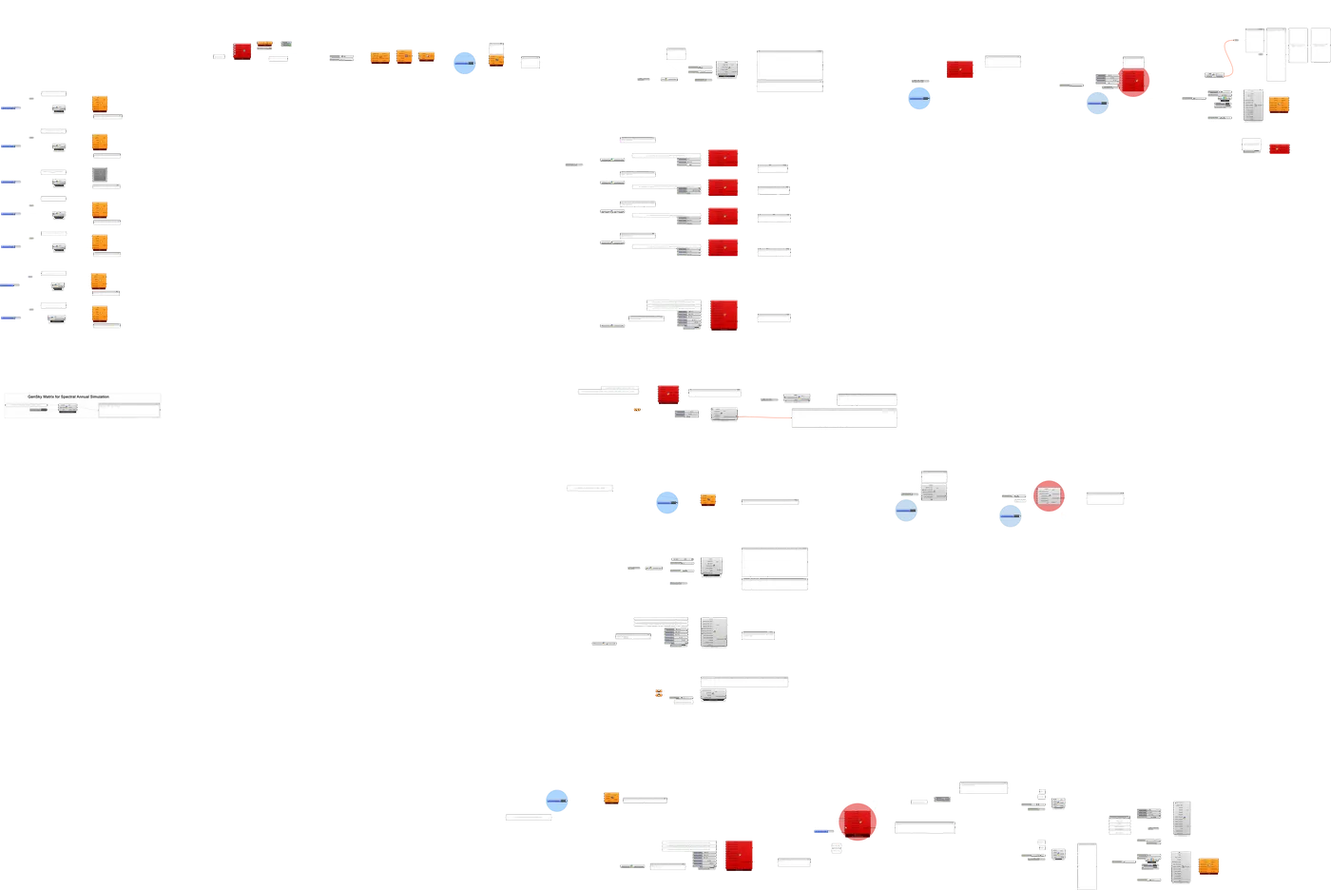
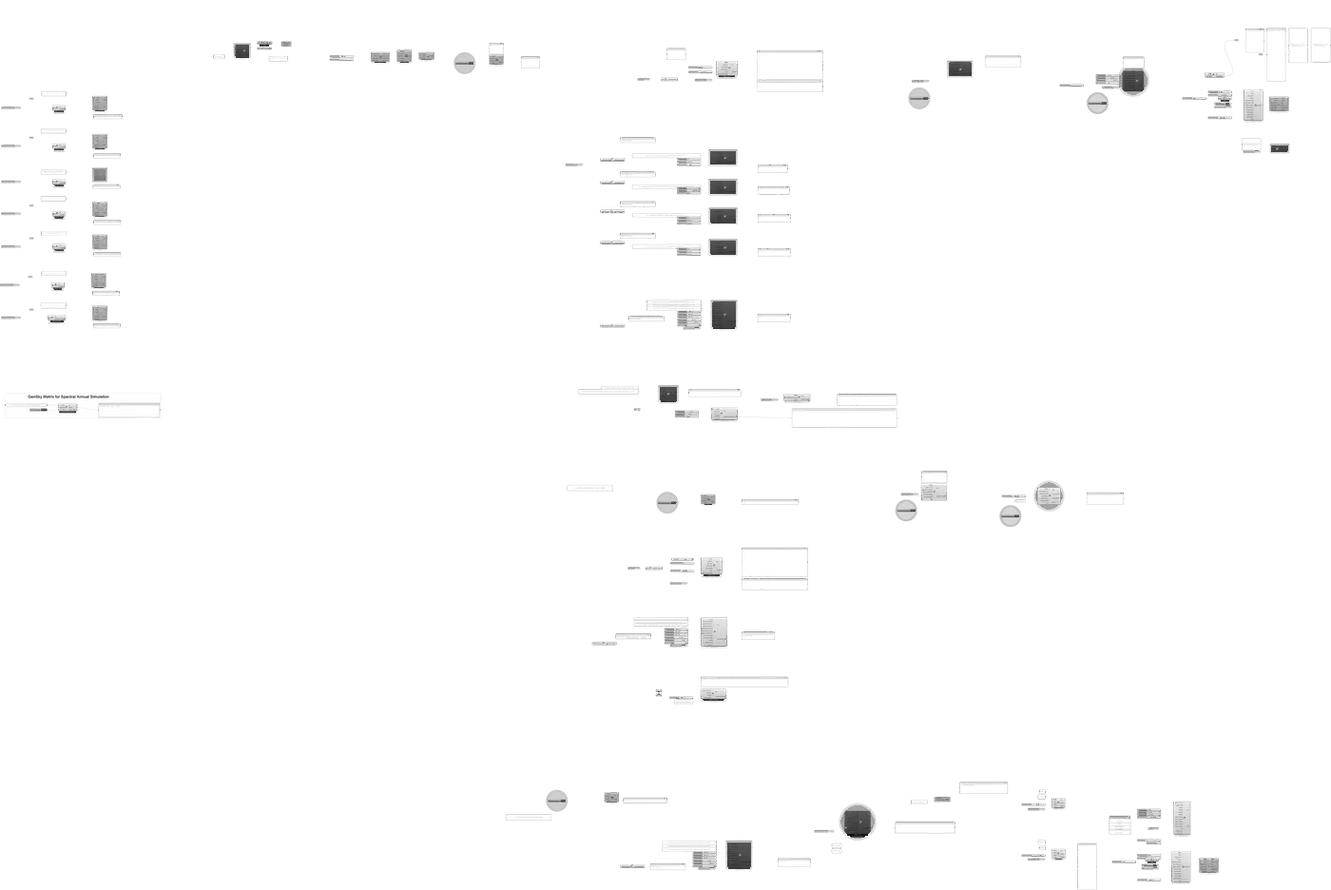
Spectral conversion section with calculator, model beside aligned PPFD and DLI heat maps, credit roles, black and white definitions

diff --git a/index.html b/index.html
@@ -20,17 +20,18 @@
   <link rel="preconnect" href="https://fonts.googleapis.com">
   <link rel="preconnect" href="https://fonts.gstatic.com" crossorigin>
   <link rel="stylesheet" href="https://fonts.googleapis.com/css2?family=Archivo:wdth,wght@62..125,100..900&family=JetBrains+Mono:wght@400;500&display=swap">
-  <link rel="stylesheet" href="assets/style.css?v=1">
+  <link rel="stylesheet" href="assets/style.css?v=2">
 </head>
 <body>
   <header class="top">
     <a class="name brand" href="#top"><img src="img/icon.png" alt="" width="24" height="24">Kybele</a>
     <nav class="toc" aria-label="Sections">
       <a href="#light"><span>01</span> Plants and light</a>
-      <a href="#tool"><span>02</span> The tool</a>
-      <a href="#case"><span>03</span> Case study</a>
-      <a href="#workflows"><span>04</span> Definitions</a>
-      <a href="#credits"><span>05</span> Credits</a>
+      <a href="#conversion"><span>02</span> Lux to PPFD</a>
+      <a href="#tool"><span>03</span> The tool</a>
+      <a href="#case"><span>04</span> Case study</a>
+      <a href="#workflows"><span>05</span> Definitions</a>
+      <a href="#credits"><span>06</span> Credits</a>
     </nav>
     <div class="themes" role="group" aria-label="Theme">
       <button type="button" data-theme="trace">Trace</button><button type="button" data-theme="night">Night</button><button type="button" data-theme="clay">Clay</button>
@@ -56,8 +57,8 @@
       <div><img class="logo-hero" src="img/kybele-logo.webp" width="900" height="900" alt="Kybele logo: a greenhouse outline with a fruiting plant, in grey and orange"></div>
       <ol class="index">
         <li><a href="#light"><span class="n">01</span><span class="t">Plants and light</span><span class="m">Why lux is not enough</span></a></li>
-        <li><a href="#case"><span class="n">03</span><span class="t">UW greenhouse</span><span class="m">PPFD every month, DLI every day</span></a></li>
-        <li><a href="#credits"><span class="n">05</span><span class="t">Credits</span><span class="m">Mehlika Inanici, Gundula Proksch, Shafiul Islam</span></a></li>
+        <li><a href="#case"><span class="n">04</span><span class="t">UW greenhouse</span><span class="m">PPFD every month, DLI every day</span></a></li>
+        <li><a href="#credits"><span class="n">06</span><span class="t">Credits</span><span class="m">Mehlika Inanici, Gundula Proksch, Shafiul Islam</span></a></li>
       </ol>
     </section>
 
@@ -92,11 +93,48 @@
       </div>
     </section>
 
+    <section class="sec" id="conversion">
+      <div class="wrap">
+        <div class="sec-head">
+          <div>
+            <p class="kicker"><b>02</b>Spectral conversion</p>
+            <h2>From lux to photons</h2>
+            <p class="sub">The conversion factor depends on the spectrum of the light</p>
+          </div>
+          <div class="cols">
+            <p>Radiance computes light in three channels, and its results are photometric (lux, weighted by the eye's V(λ)) or radiometric (W/m²). Plants need a photon count in the PAR range. Turning one into the other needs the spectral power distribution of the light, E(λ): the same lux carries more or fewer PAR photons depending on how the energy is spread across wavelengths.</p>
+            <p>For a three channel simulation the conversion is a single factor for the light source, PPFD = k × illuminance. A hyperspectral simulation carries the spectrum through the whole calculation and integrates the photons directly, so it needs no factor; that matters most for LED grow lights, whose narrow peaks a single factor cannot describe.</p>
+          </div>
+        </div>
+        <div class="split">
+          <div>
+            <h3>The factor</h3>
+            <div class="eq">
+              <p><span class="v">PPFD</span> = <span class="int">∫<sub>400</sub><sup>700</sup></span> E(λ) · λ / (h · c · N<sub>A</sub>) dλ <small>µmol/m²/s</small></p>
+              <p><span class="v">E<sub>v</sub></span> = 683 lm/W · <span class="int">∫<sub>380</sub><sup>780</sup></span> E(λ) · V(λ) dλ <small>lux</small></p>
+              <p><span class="v">k</span> = PPFD / E<sub>v</sub> <small>µmol/m²/s per lux</small></p>
+            </div>
+            <p class="eq-note">h is Planck's constant, c the speed of light and N<sub>A</sub> Avogadro's number, so λ / (h c N<sub>A</sub>) is the number of moles of photons in one joule at wavelength λ (about 8.36 µmol per joule per 1000 nm). The PAR range and V(λ) are the curves in the chart above.</p>
+          </div>
+          <div>
+            <h3>Try it</h3>
+            <div class="calc" id="calc">
+              <label><span>Light source, as a black body</span><input type="range" id="cct" min="2000" max="10000" step="100" value="5800"><b id="cctv">5800 K</b></label>
+              <label><span>Illuminance from the simulation</span><input type="number" id="lux" value="50000" min="0" step="1000"> <b>lux</b></label>
+              <p class="calc-out"><span>k = <b id="kv"></b> µmol/m²/s per klux</span><span>PPFD = <b id="pv"></b> µmol/m²/s</span></p>
+              <svg class="chart" id="calcsvg" viewBox="0 0 520 150" aria-label="Spectrum of the chosen light source with the PAR range"></svg>
+            </div>
+            <p class="eq-note">Computed in the page from the V(λ) and PAR curves above. Sunlight is close to a 5800 K black body (about 18 µmol/m²/s per klux); warm incandescent light near 2700 K gives about 21. Electric lamps and LEDs need their own measured spectrum.</p>
+          </div>
+        </div>
+      </div>
+    </section>
+
     <section class="sec" id="tool">
       <div class="wrap">
         <div class="sec-head">
           <div>
-            <p class="kicker"><b>02</b>The tool</p>
+            <p class="kicker"><b>03</b>The tool</p>
             <h2>What Kybele does</h2>
             <p class="sub">Rhino 8 · Grasshopper · CPython 3.9 · Radiance · EnergyPlus</p>
           </div>
@@ -128,7 +166,7 @@
       <div class="wrap">
         <div class="sec-head">
           <div>
-            <p class="kicker"><b>03</b>Case study</p>
+            <p class="kicker"><b>04</b>Case study</p>
             <h2>UW greenhouse</h2>
             <p class="sub">A two bay greenhouse among campus buildings, Seattle</p>
           </div>
@@ -145,16 +183,19 @@
             <div>
               <div class="months"><figure data-seq="monthseq" data-frame="0"><img src="img/month-01.webp" width="462" height="348" alt="PPFD, January 21 at noon" loading="lazy" decoding="async"><figcaption>Jan <b>164</b></figcaption></figure><figure data-seq="monthseq" data-frame="1"><img src="img/month-02.webp" width="462" height="348" alt="PPFD, February 21 at noon" loading="lazy" decoding="async"><figcaption>Feb <b>312</b></figcaption></figure><figure data-seq="monthseq" data-frame="2"><img src="img/month-03.webp" width="462" height="348" alt="PPFD, March 21 at noon" loading="lazy" decoding="async"><figcaption>Mar <b>811</b></figcaption></figure><figure data-seq="monthseq" data-frame="3"><img src="img/month-04.webp" width="462" height="348" alt="PPFD, April 21 at noon" loading="lazy" decoding="async"><figcaption>Apr <b>1157</b></figcaption></figure><figure data-seq="monthseq" data-frame="4"><img src="img/month-05.webp" width="462" height="348" alt="PPFD, May 21 at noon" loading="lazy" decoding="async"><figcaption>May <b>561</b></figcaption></figure><figure data-seq="monthseq" data-frame="5"><img src="img/month-06.webp" width="462" height="348" alt="PPFD, June 21 at noon" loading="lazy" decoding="async"><figcaption>Jun <b>772</b></figcaption></figure><figure data-seq="monthseq" data-frame="6"><img src="img/month-07.webp" width="462" height="348" alt="PPFD, July 21 at noon" loading="lazy" decoding="async"><figcaption>Jul <b>853</b></figcaption></figure><figure data-seq="monthseq" data-frame="7"><img src="img/month-08.webp" width="462" height="348" alt="PPFD, August 21 at noon" loading="lazy" decoding="async"><figcaption>Aug <b>1266</b></figcaption></figure><figure data-seq="monthseq" data-frame="8"><img src="img/month-09.webp" width="462" height="348" alt="PPFD, September 21 at noon" loading="lazy" decoding="async"><figcaption>Sep <b>1044</b></figcaption></figure><figure data-seq="monthseq" data-frame="9"><img src="img/month-10.webp" width="462" height="348" alt="PPFD, October 21 at noon" loading="lazy" decoding="async"><figcaption>Oct <b>576</b></figcaption></figure><figure data-seq="monthseq" data-frame="10"><img src="img/month-11.webp" width="462" height="348" alt="PPFD, November 21 at noon" loading="lazy" decoding="async"><figcaption>Nov <b>59</b></figcaption></figure><figure data-seq="monthseq" data-frame="11"><img src="img/month-12.webp" width="462" height="348" alt="PPFD, December 21 at noon" loading="lazy" decoding="async"><figcaption>Dec <b>255</b></figcaption></figure></div>
               <div style="margin-top: 12px"><div class="ppfd-scale"></div><div class="ppfd-keys"><span>100</span><span>PPFD, µmol/m²/s</span><span>1000</span></div></div>
-              <div style="margin-top: 16px"><figure><img src="img/case-study.webp" data-l="img/case-study-l.webp" width="1100" height="559" alt="The greenhouse model among wireframe campus buildings" class="v-light" loading="lazy" decoding="async"><img src="img/case-study-n.webp" data-l="img/case-study-n-l.webp" width="1100" height="559" alt="The greenhouse model among wireframe campus buildings" class="v-dark" loading="lazy" decoding="async"><figcaption>The model and its surroundings.</figcaption></figure></div>
+
             </div>
           </div>
         </div>
 
         <div class="block">
-          <div class="bh"><h3>Every hour, every day</h3><span>annual results for one sensor</span></div>
+          <div class="bh"><h3>Every hour, every day</h3><span>the model, and the annual results for one sensor: PPFD for every hour adds up to DLI for every day</span></div>
           <div class="split">
-            <figure><img src="img/heat-ppfd.webp" data-l="img/heat-ppfd-l.webp" width="1100" height="489" alt="Annual PPFD heat map for a sensor, hour of day against day of year" class="v-light" loading="lazy" decoding="async"><img src="img/heat-ppfd-n.webp" data-l="img/heat-ppfd-n-l.webp" width="1100" height="489" alt="Annual PPFD heat map for a sensor, hour of day against day of year" class="v-dark" loading="lazy" decoding="async"><figcaption>PPFD for 8760 hours: 63% of hours below 100 µmol/m²/s (nights included), 6% above 1000.</figcaption></figure>
-            <figure><img src="img/heat-dli.webp" data-l="img/heat-dli-l.webp" width="1100" height="341" alt="Annual DLI heat map, day of year" class="v-light" loading="lazy" decoding="async"><img src="img/heat-dli-n.webp" data-l="img/heat-dli-n-l.webp" width="1100" height="341" alt="Annual DLI heat map, day of year" class="v-dark" loading="lazy" decoding="async"><figcaption>DLI for 365 days: 29% of days below 10 mol/m²/day, 16% above 40.</figcaption></figure>
+            <figure><img src="img/case-study.webp" data-l="img/case-study-l.webp" width="1100" height="559" alt="The greenhouse model among wireframe campus buildings" class="v-light" loading="lazy" decoding="async"><img src="img/case-study-n.webp" data-l="img/case-study-n-l.webp" width="1100" height="559" alt="The greenhouse model among wireframe campus buildings" class="v-dark" loading="lazy" decoding="async"><figcaption>The model and its surroundings.</figcaption></figure>
+            <div class="heat">
+              <figure class="h-ppfd"><img src="img/heat-ppfd.webp" data-l="img/heat-ppfd-l.webp" width="1100" height="489" alt="Annual PPFD heat map for a sensor, hour of day against day of year" class="v-light" loading="lazy" decoding="async"><img src="img/heat-ppfd-n.webp" data-l="img/heat-ppfd-n-l.webp" width="1100" height="489" alt="Annual PPFD heat map for a sensor, hour of day against day of year" class="v-dark" loading="lazy" decoding="async"><figcaption>PPFD for 8760 hours: 63% of hours below 100 µmol/m²/s (nights included), 6% above 1000.</figcaption></figure>
+              <figure class="h-dli"><img src="img/heat-dli.webp" data-l="img/heat-dli-l.webp" width="1100" height="341" alt="Annual DLI heat map, day of year" class="v-light" loading="lazy" decoding="async"><img src="img/heat-dli-n.webp" data-l="img/heat-dli-n-l.webp" width="1100" height="341" alt="Annual DLI heat map, day of year" class="v-dark" loading="lazy" decoding="async"><figcaption>DLI for 365 days, the sum of each day's PPFD: 29% of days below 10 mol/m²/day, 16% above 40.</figcaption></figure>
+            </div>
           </div>
         </div>
 
@@ -174,7 +215,7 @@
       <div class="wrap">
         <div class="sec-head">
           <div>
-            <p class="kicker"><b>04</b>Definitions</p>
+            <p class="kicker"><b>05</b>Definitions</p>
             <h2>The Grasshopper definitions</h2>
             <p class="sub">Three channel and hyperspectral</p>
           </div>
@@ -194,19 +235,19 @@
       <div class="wrap">
         <div class="sec-head">
           <div>
-            <p class="kicker"><b>05</b>Credits</p>
+            <p class="kicker"><b>06</b>Credits</p>
             <h2>People and places</h2>
             <p class="sub">University of Washington, Department of Architecture</p>
           </div>
           <div class="cols">
-            <p>Kybele was presented as "Simulation for Food: Evaluating Urban Greenhouses" by Shafiul Islam and Mehlika Inanici at the 24th International Radiance Workshop, hosted by the University of Washington in Gould Hall, Seattle, on Tuesday, September 1, 2026.</p>
+            <p>Kybele was presented as "Simulation for Food: Evaluating Urban Greenhouses" by Mehlika Inanici and Shafiul Islam at the 24th International Radiance Workshop, hosted by the University of Washington in Gould Hall, Seattle, on Tuesday, September 1, 2026.</p>
             <p>Kybele is listed among the in-house software of Mehlika Inanici's research and published on food4Rhino under the BSD 3 clause licence.</p>
           </div>
         </div>
         <div class="people">
-          <div><b>Mehlika Inanici</b><p class="role">Research lead, co-presenter</p><p>Leads the research behind Kybele and published the plugin on food4Rhino. Co-presenter at the Radiance Workshop, which she hosted, and co-author of the chapter "Lighting simulations in greenhouses".</p></div>
-          <div><b>Gundula Proksch</b><p class="role">Controlled environment agriculture research</p><p>Principal investigator of the Belmont Forum collaborative research project "Aquaponics optimization in a local climatic, economic and cultural context" (2024 to 2027), with Mehlika Inanici as co-principal investigator, and co-editor, with Oliver Körner, of <i>Advances in Controlled Environment Agriculture</i>.</p></div>
-          <div><b>Shafiul Islam</b><p class="role">Developer, co-presenter</p><p>Developed the Kybele components and the Grasshopper workflows, ran the UW greenhouse case study, and presented the work at the Radiance Workshop. Co-author of the chapter with Mehlika Inanici.</p></div>
+          <div><b>Mehlika Inanici</b><p class="role">Research lead</p><p>Leads the research behind Kybele and published the plugin on food4Rhino. Hosted the Radiance Workshop where it was presented, and is first author of the chapter "Lighting simulations in greenhouses".</p></div>
+          <div><b>Gundula Proksch</b><p class="role">Research advisor</p><p>Advisor to the research. Principal investigator of the Belmont Forum collaborative research project "Aquaponics optimization in a local climatic, economic and cultural context" (2024 to 2027), with Mehlika Inanici as co-principal investigator, and co-editor, with Oliver Körner, of <i>Advances in Controlled Environment Agriculture</i>.</p></div>
+          <div><b>Shafiul Islam</b><p class="role">Developer, researcher</p><p>Developed the Kybele components and the Grasshopper workflows, ran the UW greenhouse case study, and presented the work with Mehlika Inanici at the Radiance Workshop. Co-author of the chapter.</p></div>
         </div>
         <div class="block">
           <h3>Publication</h3>
@@ -228,7 +269,7 @@
       <span><a href="https://shafiarch.github.io/works_shafi/">Works</a> · <a href="https://shafiarch.github.io/simulation_workflows/">Simulation Workflows</a> · <a href="https://shafiarch.github.io/works_fabrications/">Fabrication Works</a> · <a href="https://github.com/ShafiArch/Kybele">Source files</a></span>
     </div>
   </footer>
-  <script>window.KYBELE_DLI = {"a":[4.8,8.3,6.1,6.9,5.6,5.3,1.6,1.7,5.3,10.1,7.9,1.3,1.7,10.1,3.0,7.8,5.7,2.3,6.8,9.0,3.9,4.3,6.8,3.7,3.6,6.7,5.1,9.3,15.7,13.8,10.4,10.1,13.6,15.4,10.3,19.0,11.1,17.4,13.7,6.4,4.2,8.6,14.6,13.4,8.7,2.9,11.8,10.1,2.6,15.8,11.9,10.5,7.0,4.6,2.3,21.8,21.8,12.4,24.5,7.8,11.3,21.5,24.8,10.8,5.0,16.7,24.0,27.3,6.4,12.4,3.9,2.9,8.0,16.4,11.8,21.1,23.2,13.3,17.3,23.2,23.2,26.9,22.0,28.4,28.0,19.5,29.4,31.4,36.2,36.4,31.5,28.4,15.6,30.6,9.2,13.2,36.8,14.8,26.4,34.9,32.2,27.2,42.9,39.1,27.9,5.4,10.1,26.3,15.1,27.1,32.9,34.8,17.3,30.3,37.1,36.9,30.6,34.5,43.9,46.7,46.9,40.2,47.6,47.3,47.8,48.2,46.3,47.0,48.0,44.6,36.9,13.8,26.4,37.0,27.8,44.0,18.1,21.0,24.6,40.1,24.3,20.7,32.6,33.1,28.1,26.7,8.1,22.2,23.1,35.5,31.7,25.5,47.7,22.0,40.5,36.1,49.3,30.9,13.6,32.0,36.8,37.9,28.3,28.4,18.0,28.4,40.3,47.1,47.9,47.0,36.7,37.2,24.4,18.4,46.0,32.7,36.0,28.3,19.8,14.3,13.3,45.5,44.0,42.9,32.8,19.2,34.1,25.1,37.1,49.0,40.4,31.0,26.6,48.7,49.2,49.7,42.9,39.9,38.0,47.2,43.8,38.7,40.3,48.3,47.9,48.5,48.0,45.1,27.4,28.8,29.7,26.9,45.2,22.6,20.3,42.0,44.7,44.5,45.6,45.3,45.8,45.6,23.9,21.7,45.0,45.4,45.3,43.9,40.1,43.5,43.2,43.4,43.9,43.5,35.6,10.8,11.3,9.4,34.2,41.0,33.1,19.0,24.1,31.0,16.6,24.1,38.5,38.3,38.1,37.5,24.2,16.0,28.7,37.0,36.3,35.9,35.1,34.6,28.9,20.8,7.9,20.9,30.8,30.6,16.8,8.2,12.8,16.9,8.3,21.8,27.7,7.7,17.5,26.5,26.3,17.2,27.1,26.7,26.6,26.1,25.8,24.8,23.9,23.9,23.0,2.2,3.5,3.6,7.5,18.2,18.8,17.2,7.4,13.6,15.6,4.2,12.3,12.9,13.7,4.0,1.4,9.2,5.8,1.3,10.5,5.8,2.5,6.6,2.9,8.6,10.0,14.5,7.1,12.6,15.3,15.4,12.1,14.4,14.4,13.7,13.5,9.9,8.3,4.8,1.3,4.2,5.6,3.8,1.2,5.1,4.0,0.7,8.6,11.5,6.2,8.5,10.2,10.7,10.4,10.6,9.1,4.1,1.2,5.4,0.6,4.6,1.5,3.8,7.1,1.3,4.1,3.8,4.2,3.0,5.2,4.3,3.1,7.7,4.2,2.4,4.8,0.9,1.0,5.8,8.9],"d":[20.2,16.7,18.9,18.1,19.4,19.7,23.4,23.3,19.7,14.9,17.1,23.7,23.3,14.9,22.0,17.2,19.3,22.7,18.2,16.0,21.1,20.7,18.2,21.3,21.4,18.3,19.9,15.7,9.3,11.2,14.6,14.9,11.4,9.6,14.7,6.0,13.9,7.6,11.3,18.6,20.8,16.4,10.4,11.6,16.3,22.1,13.2,14.9,22.4,9.2,13.1,14.5,18.0,20.4,22.7,3.2,3.2,12.6,0.5,17.2,13.7,3.5,0.2,14.2,20.0,8.3,1.0,0.0,18.6,12.6,21.1,22.1,17.0,8.6,13.2,3.9,1.8,11.7,7.7,1.8,1.8,0.0,3.0,0.0,0.0,5.5,0.0,0.0,0.0,0.0,0.0,0.0,9.4,0.0,15.8,11.8,0.0,10.2,0.0,0.0,0.0,0.0,0.0,0.0,0.0,19.6,14.9,0.0,9.9,0.0,0.0,0.0,7.7,0.0,0.0,0.0,0.0,0.0,0.0,0.0,0.0,0.0,0.0,0.0,0.0,0.0,0.0,0.0,0.0,0.0,0.0,11.2,0.0,0.0,0.0,0.0,6.9,4.0,0.4,0.0,0.7,4.3,0.0,0.0,0.0,0.0,16.9,2.8,1.9,0.0,0.0,0.0,0.0,3.0,0.0,0.0,0.0,0.0,11.4,0.0,0.0,0.0,0.0,0.0,7.0,0.0,0.0,0.0,0.0,0.0,0.0,0.0,0.6,6.6,0.0,0.0,0.0,0.0,5.2,10.7,11.7,0.0,0.0,0.0,0.0,5.8,0.0,0.0,0.0,0.0,0.0,0.0,0.0,0.0,0.0,0.0,0.0,0.0,0.0,0.0,0.0,0.0,0.0,0.0,0.0,0.0,0.0,0.0,0.0,0.0,0.0,0.0,0.0,2.4,4.7,0.0,0.0,0.0,0.0,0.0,0.0,0.0,1.1,3.3,0.0,0.0,0.0,0.0,0.0,0.0,0.0,0.0,0.0,0.0,0.0,14.2,13.7,15.6,0.0,0.0,0.0,6.0,0.9,0.0,8.4,0.9,0.0,0.0,0.0,0.0,0.8,9.0,0.0,0.0,0.0,0.0,0.0,0.0,0.0,4.2,17.1,4.1,0.0,0.0,8.2,16.8,12.2,8.1,16.7,3.2,0.0,17.3,7.5,0.0,0.0,7.8,0.0,0.0,0.0,0.0,0.0,0.2,1.1,1.1,2.0,22.8,21.5,21.4,17.5,6.8,6.2,7.8,17.6,11.4,9.4,20.8,12.7,12.1,11.3,21.0,23.6,15.8,19.2,23.7,14.5,19.2,22.5,18.4,22.1,16.4,15.0,10.5,17.9,12.4,9.7,9.6,12.9,10.6,10.6,11.3,11.5,15.1,16.7,20.2,23.7,20.8,19.4,21.2,23.8,19.9,21.0,24.3,16.4,13.5,18.8,16.5,14.8,14.3,14.6,14.4,15.9,20.9,23.8,19.6,24.4,20.4,23.5,21.2,17.9,23.7,20.9,21.2,20.8,22.0,19.8,20.7,21.9,17.3,20.8,22.6,20.2,24.1,24.0,19.2,16.1],"h":[20.1,16.0,18.6,17.6,19.1,19.5,23.8,23.7,19.5,13.8,16.5,24.2,23.7,13.9,22.2,16.6,19.1,23.0,17.8,15.1,21.2,20.7,17.8,21.3,21.5,17.8,19.7,14.8,7.4,9.6,13.5,13.9,9.8,7.7,13.7,3.4,12.7,5.4,9.6,18.2,20.8,15.6,8.6,10.1,15.5,22.3,11.9,13.9,22.6,7.2,11.8,13.4,17.5,20.3,23.0,0.3,0.3,11.2,0.0,16.6,12.5,0.6,0.0,13.1,19.9,6.2,0.0,0.0,18.2,11.2,21.1,22.3,16.3,6.5,11.9,1.0,0.0,10.1,5.5,0.0,0.0,0.0,0.0,0.0,0.0,2.9,0.0,0.0,0.0,0.0,0.0,0.0,7.5,0.0,15.0,10.3,0.0,8.4,0.0,0.0,0.0,0.0,0.0,0.0,0.0,19.4,13.9,0.0,8.1,0.0,0.0,0.0,5.4,0.0,0.0,0.0,0.0,0.0,0.0,0.0,0.0,0.0,0.0,0.0,0.0,0.0,0.0,0.0,0.0,0.0,0.0,9.6,0.0,0.0,0.0,0.0,4.6,1.2,0.0,0.0,0.0,1.5,0.0,0.0,0.0,0.0,16.3,0.0,0.0,0.0,0.0,0.0,0.0,0.0,0.0,0.0,0.0,0.0,9.8,0.0,0.0,0.0,0.0,0.0,4.7,0.0,0.0,0.0,0.0,0.0,0.0,0.0,0.0,4.2,0.0,0.0,0.0,0.0,2.5,8.9,10.2,0.0,0.0,0.0,0.0,3.3,0.0,0.0,0.0,0.0,0.0,0.0,0.0,0.0,0.0,0.0,0.0,0.0,0.0,0.0,0.0,0.0,0.0,0.0,0.0,0.0,0.0,0.0,0.0,0.0,0.0,0.0,0.0,0.0,2.0,0.0,0.0,0.0,0.0,0.0,0.0,0.0,0.0,0.3,0.0,0.0,0.0,0.0,0.0,0.0,0.0,0.0,0.0,0.0,0.0,13.1,12.5,14.7,0.0,0.0,0.0,3.4,0.0,0.0,6.3,0.0,0.0,0.0,0.0,0.0,0.0,7.0,0.0,0.0,0.0,0.0,0.0,0.0,0.0,1.4,16.4,1.3,0.0,0.0,6.1,16.1,10.7,6.0,16.0,0.2,0.0,16.7,5.2,0.0,0.0,5.6,0.0,0.0,0.0,0.0,0.0,0.0,0.0,0.0,0.0,23.1,21.6,21.5,16.9,4.4,3.8,5.7,17.0,9.8,7.5,20.8,11.3,10.6,9.7,21.1,24.0,14.9,18.9,24.2,13.4,18.9,22.7,18.0,22.3,15.6,14.0,8.7,17.4,11.0,7.8,7.7,11.6,8.9,8.9,9.6,9.9,14.1,16.0,20.0,24.1,20.7,19.2,21.3,24.3,19.8,21.0,24.8,15.6,12.3,18.5,15.8,13.7,13.2,13.6,13.3,15.0,20.8,24.3,19.3,25.0,20.3,23.9,21.3,17.4,24.2,20.9,21.2,20.8,22.2,19.6,20.7,22.1,16.7,20.7,22.9,20.1,24.6,24.5,18.9,15.3]};</script>
-  <script src="assets/site.js?v=1"></script>
+  <script>window.KYBELE_DLI = {"a":[4.8,8.3,6.1,6.9,5.6,5.3,1.6,1.7,5.3,10.1,7.9,1.3,1.7,10.1,3.0,7.8,5.7,2.3,6.8,9.0,3.9,4.3,6.8,3.7,3.6,6.7,5.1,9.3,15.7,13.8,10.4,10.1,13.6,15.4,10.3,19.0,11.1,17.4,13.7,6.4,4.2,8.6,14.6,13.4,8.7,2.9,11.8,10.1,2.6,15.8,11.9,10.5,7.0,4.6,2.3,21.8,21.8,12.4,24.5,7.8,11.3,21.5,24.8,10.8,5.0,16.7,24.0,27.3,6.4,12.4,3.9,2.9,8.0,16.4,11.8,21.1,23.2,13.3,17.3,23.2,23.2,26.9,22.0,28.4,28.0,19.5,29.4,31.4,36.2,36.4,31.5,28.4,15.6,30.6,9.2,13.2,36.8,14.8,26.4,34.9,32.2,27.2,42.9,39.1,27.9,5.4,10.1,26.3,15.1,27.1,32.9,34.8,17.3,30.3,37.1,36.9,30.6,34.5,43.9,46.7,46.9,40.2,47.6,47.3,47.8,48.2,46.3,47.0,48.0,44.6,36.9,13.8,26.4,37.0,27.8,44.0,18.1,21.0,24.6,40.1,24.3,20.7,32.6,33.1,28.1,26.7,8.1,22.2,23.1,35.5,31.7,25.5,47.7,22.0,40.5,36.1,49.3,30.9,13.6,32.0,36.8,37.9,28.3,28.4,18.0,28.4,40.3,47.1,47.9,47.0,36.7,37.2,24.4,18.4,46.0,32.7,36.0,28.3,19.8,14.3,13.3,45.5,44.0,42.9,32.8,19.2,34.1,25.1,37.1,49.0,40.4,31.0,26.6,48.7,49.2,49.7,42.9,39.9,38.0,47.2,43.8,38.7,40.3,48.3,47.9,48.5,48.0,45.1,27.4,28.8,29.7,26.9,45.2,22.6,20.3,42.0,44.7,44.5,45.6,45.3,45.8,45.6,23.9,21.7,45.0,45.4,45.3,43.9,40.1,43.5,43.2,43.4,43.9,43.5,35.6,10.8,11.3,9.4,34.2,41.0,33.1,19.0,24.1,31.0,16.6,24.1,38.5,38.3,38.1,37.5,24.2,16.0,28.7,37.0,36.3,35.9,35.1,34.6,28.9,20.8,7.9,20.9,30.8,30.6,16.8,8.2,12.8,16.9,8.3,21.8,27.7,7.7,17.5,26.5,26.3,17.2,27.1,26.7,26.6,26.1,25.8,24.8,23.9,23.9,23.0,2.2,3.5,3.6,7.5,18.2,18.8,17.2,7.4,13.6,15.6,4.2,12.3,12.9,13.7,4.0,1.4,9.2,5.8,1.3,10.5,5.8,2.5,6.6,2.9,8.6,10.0,14.5,7.1,12.6,15.3,15.4,12.1,14.4,14.4,13.7,13.5,9.9,8.3,4.8,1.3,4.2,5.6,3.8,1.2,5.1,4.0,0.7,8.6,11.5,6.2,8.5,10.2,10.7,10.4,10.6,9.1,4.1,1.2,5.4,0.6,4.6,1.5,3.8,7.1,1.3,4.1,3.8,4.2,3.0,5.2,4.3,3.1,7.7,4.2,2.4,4.8,0.9,1.0,5.8,8.9],"d":[20.2,16.7,18.9,18.1,19.4,19.7,23.4,23.3,19.7,14.9,17.1,23.7,23.3,14.9,22.0,17.2,19.3,22.7,18.2,16.0,21.1,20.7,18.2,21.3,21.4,18.3,19.9,15.7,9.3,11.2,14.6,14.9,11.4,9.6,14.7,6.0,13.9,7.6,11.3,18.6,20.8,16.4,10.4,11.6,16.3,22.1,13.2,14.9,22.4,9.2,13.1,14.5,18.0,20.4,22.7,3.2,3.2,12.6,0.5,17.2,13.7,3.5,0.2,14.2,20.0,8.3,1.0,0.0,18.6,12.6,21.1,22.1,17.0,8.6,13.2,3.9,1.8,11.7,7.7,1.8,1.8,0.0,3.0,0.0,0.0,5.5,0.0,0.0,0.0,0.0,0.0,0.0,9.4,0.0,15.8,11.8,0.0,10.2,0.0,0.0,0.0,0.0,0.0,0.0,0.0,19.6,14.9,0.0,9.9,0.0,0.0,0.0,7.7,0.0,0.0,0.0,0.0,0.0,0.0,0.0,0.0,0.0,0.0,0.0,0.0,0.0,0.0,0.0,0.0,0.0,0.0,11.2,0.0,0.0,0.0,0.0,6.9,4.0,0.4,0.0,0.7,4.3,0.0,0.0,0.0,0.0,16.9,2.8,1.9,0.0,0.0,0.0,0.0,3.0,0.0,0.0,0.0,0.0,11.4,0.0,0.0,0.0,0.0,0.0,7.0,0.0,0.0,0.0,0.0,0.0,0.0,0.0,0.6,6.6,0.0,0.0,0.0,0.0,5.2,10.7,11.7,0.0,0.0,0.0,0.0,5.8,0.0,0.0,0.0,0.0,0.0,0.0,0.0,0.0,0.0,0.0,0.0,0.0,0.0,0.0,0.0,0.0,0.0,0.0,0.0,0.0,0.0,0.0,0.0,0.0,0.0,0.0,0.0,2.4,4.7,0.0,0.0,0.0,0.0,0.0,0.0,0.0,1.1,3.3,0.0,0.0,0.0,0.0,0.0,0.0,0.0,0.0,0.0,0.0,0.0,14.2,13.7,15.6,0.0,0.0,0.0,6.0,0.9,0.0,8.4,0.9,0.0,0.0,0.0,0.0,0.8,9.0,0.0,0.0,0.0,0.0,0.0,0.0,0.0,4.2,17.1,4.1,0.0,0.0,8.2,16.8,12.2,8.1,16.7,3.2,0.0,17.3,7.5,0.0,0.0,7.8,0.0,0.0,0.0,0.0,0.0,0.2,1.1,1.1,2.0,22.8,21.5,21.4,17.5,6.8,6.2,7.8,17.6,11.4,9.4,20.8,12.7,12.1,11.3,21.0,23.6,15.8,19.2,23.7,14.5,19.2,22.5,18.4,22.1,16.4,15.0,10.5,17.9,12.4,9.7,9.6,12.9,10.6,10.6,11.3,11.5,15.1,16.7,20.2,23.7,20.8,19.4,21.2,23.8,19.9,21.0,24.3,16.4,13.5,18.8,16.5,14.8,14.3,14.6,14.4,15.9,20.9,23.8,19.6,24.4,20.4,23.5,21.2,17.9,23.7,20.9,21.2,20.8,22.0,19.8,20.7,21.9,17.3,20.8,22.6,20.2,24.1,24.0,19.2,16.1],"h":[20.1,16.0,18.6,17.6,19.1,19.5,23.8,23.7,19.5,13.8,16.5,24.2,23.7,13.9,22.2,16.6,19.1,23.0,17.8,15.1,21.2,20.7,17.8,21.3,21.5,17.8,19.7,14.8,7.4,9.6,13.5,13.9,9.8,7.7,13.7,3.4,12.7,5.4,9.6,18.2,20.8,15.6,8.6,10.1,15.5,22.3,11.9,13.9,22.6,7.2,11.8,13.4,17.5,20.3,23.0,0.3,0.3,11.2,0.0,16.6,12.5,0.6,0.0,13.1,19.9,6.2,0.0,0.0,18.2,11.2,21.1,22.3,16.3,6.5,11.9,1.0,0.0,10.1,5.5,0.0,0.0,0.0,0.0,0.0,0.0,2.9,0.0,0.0,0.0,0.0,0.0,0.0,7.5,0.0,15.0,10.3,0.0,8.4,0.0,0.0,0.0,0.0,0.0,0.0,0.0,19.4,13.9,0.0,8.1,0.0,0.0,0.0,5.4,0.0,0.0,0.0,0.0,0.0,0.0,0.0,0.0,0.0,0.0,0.0,0.0,0.0,0.0,0.0,0.0,0.0,0.0,9.6,0.0,0.0,0.0,0.0,4.6,1.2,0.0,0.0,0.0,1.5,0.0,0.0,0.0,0.0,16.3,0.0,0.0,0.0,0.0,0.0,0.0,0.0,0.0,0.0,0.0,0.0,9.8,0.0,0.0,0.0,0.0,0.0,4.7,0.0,0.0,0.0,0.0,0.0,0.0,0.0,0.0,4.2,0.0,0.0,0.0,0.0,2.5,8.9,10.2,0.0,0.0,0.0,0.0,3.3,0.0,0.0,0.0,0.0,0.0,0.0,0.0,0.0,0.0,0.0,0.0,0.0,0.0,0.0,0.0,0.0,0.0,0.0,0.0,0.0,0.0,0.0,0.0,0.0,0.0,0.0,0.0,0.0,2.0,0.0,0.0,0.0,0.0,0.0,0.0,0.0,0.0,0.3,0.0,0.0,0.0,0.0,0.0,0.0,0.0,0.0,0.0,0.0,0.0,13.1,12.5,14.7,0.0,0.0,0.0,3.4,0.0,0.0,6.3,0.0,0.0,0.0,0.0,0.0,0.0,7.0,0.0,0.0,0.0,0.0,0.0,0.0,0.0,1.4,16.4,1.3,0.0,0.0,6.1,16.1,10.7,6.0,16.0,0.2,0.0,16.7,5.2,0.0,0.0,5.6,0.0,0.0,0.0,0.0,0.0,0.0,0.0,0.0,0.0,23.1,21.6,21.5,16.9,4.4,3.8,5.7,17.0,9.8,7.5,20.8,11.3,10.6,9.7,21.1,24.0,14.9,18.9,24.2,13.4,18.9,22.7,18.0,22.3,15.6,14.0,8.7,17.4,11.0,7.8,7.7,11.6,8.9,8.9,9.6,9.9,14.1,16.0,20.0,24.1,20.7,19.2,21.3,24.3,19.8,21.0,24.8,15.6,12.3,18.5,15.8,13.7,13.2,13.6,13.3,15.0,20.8,24.3,19.3,25.0,20.3,23.9,21.3,17.4,24.2,20.9,21.2,20.8,22.2,19.6,20.7,22.1,16.7,20.7,22.9,20.1,24.6,24.5,18.9,15.3]}; window.KYBELE_SPEC = {"v":[0,0,0.0001,0.0001,0.0001,0.0001,0.0001,0.0001,0.0001,0.0001,0.0001,0.0002,0.0002,0.0002,0.0002,0.0002,0.0003,0.0003,0.0004,0.0004,0.0004,0.0005,0.0005,0.0006,0.0006,0.0007,0.0008,0.0009,0.0011,0.0012,0.0014,0.0015,0.0017,0.0019,0.0022,0.0025,0.0028,0.0031,0.0036,0.004,0.0045,0.0051,0.0058,0.0066,0.0073,0.0081,0.0089,0.0098,0.0107,0.0116,0.0126,0.0136,0.0146,0.0157,0.0168,0.018,0.0192,0.0204,0.0217,0.023,0.0243,0.0256,0.027,0.0283,0.0298,0.0313,0.0329,0.0345,0.0362,0.038,0.0398,0.0418,0.0438,0.0459,0.048,0.0502,0.0526,0.055,0.0575,0.06,0.0626,0.0653,0.068,0.0709,0.0739,0.077,0.0803,0.0837,0.0873,0.091,0.0949,0.0991,0.1034,0.1079,0.1126,0.1175,0.1226,0.1279,0.1334,0.139,0.1447,0.1505,0.1565,0.1627,0.1693,0.1763,0.1836,0.1913,0.1995,0.208,0.2171,0.2267,0.2368,0.2475,0.2586,0.2702,0.2824,0.2953,0.3088,0.323,0.3382,0.3546,0.3717,0.3894,0.4073,0.4255,0.4443,0.4635,0.4831,0.503,0.5235,0.5445,0.5659,0.5872,0.6082,0.6291,0.6501,0.6709,0.691,0.71,0.728,0.7452,0.7619,0.7778,0.7932,0.8081,0.8225,0.8364,0.8496,0.862,0.8737,0.8849,0.8955,0.9055,0.9149,0.9237,0.9321,0.94,0.9473,0.954,0.9602,0.966,0.9714,0.9762,0.9803,0.984,0.9874,0.9905,0.9931,0.9949,0.9964,0.9978,0.9989,0.9997,1.0,0.9997,0.999,0.9979,0.9965,0.995,0.993,0.9901,0.9866,0.9827,0.9786,0.9742,0.9693,0.9639,0.9581,0.952,0.9455,0.9386,0.9312,0.9234,0.9154,0.9071,0.8983,0.8892,0.8797,0.87,0.8599,0.8494,0.8386,0.8275,0.8163,0.8049,0.7931,0.7812,0.7691,0.757,0.7448,0.7325,0.72,0.7075,0.6949,0.6822,0.6695,0.6567,0.6438,0.631,0.6182,0.6053,0.5925,0.5796,0.5668,0.554,0.5412,0.5284,0.5156,0.503,0.4905,0.4781,0.4657,0.4534,0.4412,0.4291,0.417,0.405,0.393,0.381,0.3689,0.3568,0.3447,0.3327,0.321,0.3094,0.2979,0.2866,0.2756,0.265,0.2548,0.245,0.2354,0.2261,0.217,0.2082,0.1995,0.1911,0.183,0.175,0.1672,0.1595,0.1521,0.1449,0.138,0.1314,0.1249,0.1187,0.1127,0.107,0.1015,0.0962,0.0911,0.0863,0.0816,0.0771,0.0728,0.0687,0.0648,0.061,0.0574,0.054,0.0507,0.0475,0.0446,0.0418,0.0391,0.0366,0.0342,0.032,0.03,0.0281,0.0264,0.0247,0.0232,0.0218,0.0205,0.0193,0.0181,0.017,0.0159,0.0148,0.0138,0.0128,0.0119,0.0111,0.0103,0.0095,0.0088,0.0082,0.0076,0.0071,0.0066,0.0061,0.0057,0.0053,0.005,0.0047,0.0044,0.0041,0.0038,0.0036,0.0034,0.0032,0.0029,0.0026,0.0023,0.002,0.0017,0.0015,0.0013,0.0011,0.001,0.0008,0.0007,0.0006,0.0006,0.0005,0.0004,0.0004,0.0003,0.0003,0.0002,0.0002,0.0002,0.0002,0.0001,0.0001,0.0001,0,0,0,0,0,0,0,0,0,0,0,0,0,0,0,0,0,0,0,0,0,0,0,0,0,0,0,0,0,0,0,0,0,0,0,0,0,0,0,0,0,0,0,0,0,0,0,0,0,0,0],"p":[0,0,0,0,0,0,0,0,0,0,0,0,0,0,0,0,0,0,0,1,1,1,1,1,1,1,1,1,1,1,1,1,1,1,1,1,1,1,1,1,1,1,1,1,1,1,1,1,1,1,1,1,1,1,1,1,1,1,1,1,1,1,1,1,1,1,1,1,1,1,1,1,1,1,1,1,1,1,1,1,1,1,1,1,1,1,1,1,1,1,1,1,1,1,1,1,1,1,1,1,1,1,1,1,1,1,1,1,1,1,1,1,1,1,1,1,1,1,1,1,1,1,1,1,1,1,1,1,1,1,1,1,1,1,1,1,1,1,1,1,1,1,1,1,1,1,1,1,1,1,1,1,1,1,1,1,1,1,1,1,1,1,1,1,1,1,1,1,1,1,1,1,1,1,1,1,1,1,1,1,1,1,1,1,1,1,1,1,1,1,1,1,1,1,1,1,1,1,1,1,1,1,1,1,1,1,1,1,1,1,1,1,1,1,1,1,1,1,1,1,1,1,1,1,1,1,1,1,1,1,1,1,1,1,1,1,1,1,1,1,1,1,1,1,1,1,1,1,1,1,1,1,1,1,1,1,1,1,1,1,1,1,1,1,1,1,1,1,1,1,1,1,1,1,1,1,1,1,1,1,1,1,1,1,1,1,1,1,1,1,1,1,1,1,1,1,1,1,1,1,1,1,1,1,1,1,1,1,1,1,1,1,1,1,1,1,1,1,1,1,0,0,0,0,0,0,0,0,0,0,0,0,0,0,0,0,0,0,0,0,0,0,0,0,0,0,0,0,0,0,0,0,0,0,0,0,0,0,0,0,0,0,0,0,0,0,0,0,0,0,0,0,0,0,0,0,0,0,0,0,0,0,0,0,0,0,0,0,0,0,0,0,0,0,0,0,0,0,0,0]};</script>
+  <script src="assets/site.js?v=2"></script>
 </body>
 </html>

diff --git a/assets/site.js b/assets/site.js
@@ -98,5 +98,29 @@
       c.addEventListener("pointerleave", function () { charts.forEach(function (k) { k.classList.remove("hover"); }); out.textContent = ""; });
     });
   }
+
+  /* lux to PPFD: k for a black body source, from the V(lambda) and PAR curves in the chart */
+  var S = window.KYBELE_SPEC, cct = document.getElementById("cct");
+  if (S && cct) {
+    var lux = document.getElementById("lux"), svg = document.getElementById("calcsvg");
+    function planck(nm, T) { var l = nm * 1e-9; return 1 / (Math.pow(l, 5) * (Math.exp(1.4388e-2 / (l * T)) - 1)); }
+    function calc() {
+      var T = +cct.value, E = [], ph = 0, lx = 0, mx = 0, i, nm;
+      for (i = 0; i < S.v.length; i++) { nm = 380 + i; E[i] = planck(nm, T); if (E[i] > mx) mx = E[i]; ph += S.p[i] * E[i] * nm * 8.359e-3; lx += 683 * E[i] * S.v[i]; }
+      var k = ph / lx;
+      document.getElementById("cctv").textContent = T + " K";
+      document.getElementById("kv").textContent = (k * 1000).toFixed(1);
+      document.getElementById("pv").textContent = Math.round(k * (+lux.value || 0)).toLocaleString("en-US");
+      var W = 520, H = 150, L = 4, B = 18, x = function (n) { return L + (n - 380) / 400 * (W - 2 * L); }, y = function (v) { return 6 + (1 - v / mx) * (H - B - 6); };
+      var pts = "", par = "";
+      for (i = 0; i < E.length; i += 4) { pts += " " + x(380 + i).toFixed(1) + "," + y(E[i]).toFixed(1); }
+      var p0 = x(400), p1 = x(700);
+      svg.innerHTML = '<rect class="band" x="' + p0 + '" y="6" width="' + (p1 - p0) + '" height="' + (H - B - 6) + '"/>' +
+        '<polygon class="spd" points="' + x(380) + ',' + y(0) + pts + ' ' + x(776) + ',' + y(0) + '"/><polyline class="spd-line" points="' + pts + '"/>' +
+        '<line class="ax" x1="' + L + '" x2="' + (W - L) + '" y1="' + y(0) + '" y2="' + y(0) + '"/>' +
+        [400, 500, 600, 700].map(function (n) { return '<text class="tk" x="' + x(n) + '" y="' + (H - 4) + '" text-anchor="middle">' + n + ' nm</text>'; }).join("");
+    }
+    cct.addEventListener("input", calc); lux.addEventListener("input", calc); calc();
+  }
 })();
 

diff --git a/assets/style.css b/assets/style.css
@@ -233,3 +233,27 @@ img[src*="legend-"] { max-width: 230px; width: 100%; }
 .cite i { font-style: italic; }
 .photo img { width: 100%; }
 .photo.missing { display: none; }
+
+/* the two heat maps share one time axis: the DLI plot is scaled and shifted so its months sit
+   under the PPFD months (plot areas measured from the images: 30 to 1490 of 1620 px, 26 to 1378 of 1433 px) */
+.heat { display: grid; gap: 18px; }
+.heat figure.h-dli img { width: 95.52%; margin-left: 0.12%; }
+
+/* spectral conversion */
+.eq { font-size: clamp(14px, 1.2vw, 17px); display: grid; gap: 10px; margin: 6px 0 12px; }
+.eq p { margin: 0; }
+.eq .v { font-weight: 600; }
+.eq .int { font-size: 1.4em; vertical-align: middle; }
+.eq .int sub, .eq .int sup { font-size: 0.45em; }
+.eq small { font-size: 11px; color: var(--ink-2); margin-left: 8px; }
+.eq-note { font-size: 12px; color: var(--ink-2); max-width: 64ch; }
+.calc { display: grid; gap: 10px; font-size: 12.5px; }
+.calc label { display: grid; grid-template-columns: 190px minmax(0, 1fr) auto; gap: 10px; align-items: center; color: var(--ink-2); }
+.calc input[type="range"] { accent-color: var(--accent); width: 100%; }
+.calc input[type="number"] { font: inherit; width: 100%; background: none; color: var(--ink); border: 0; border-bottom: 1px solid var(--rule); padding: 3px 0; }
+.calc b { color: var(--ink); font-weight: 600; min-width: 52px; }
+.calc-out { display: flex; flex-wrap: wrap; gap: 6px 26px; margin: 0; font-size: 14px; }
+.calc-out b { font-size: 22px; color: var(--accent); font-weight: 600; }
+.chart .spd { fill: var(--accent); opacity: 0.18; }
+.chart .spd-line { stroke: var(--accent); stroke-width: 1.4; fill: none; }
+@media (max-width: 560px) { .calc label { grid-template-columns: 1fr auto; } .calc label span { grid-column: 1 / -1; } }

diff --git a/tools/build_img.py b/tools/build_img.py
@@ -116,10 +116,12 @@ for k, (y, x, b) in enumerate(renders, 1):
 cs = Image.open("case study UW.png").convert("RGBA")
 save_paper(cs, "case-study", s=1100, l=2020)
 
-# the two Grasshopper definitions
+# the two Grasshopper definitions, in black and white (grey components, ink and paper)
 for src, name in (("Three_channelworkflow.png", "workflow-three-channel"), ("hyperspectral_workflow.png", "workflow-hyperspectral")):
     im = Image.open(src).convert("RGBA")
     im = im.crop(im.getbbox())
+    gray = im.convert("LA").convert("RGBA")
+    gray.putalpha(im.getchannel("A")); im = gray; del gray
     sizes = {w: im.resize((w, round(im.height * w / im.width)), Image.LANCZOS) for w in (1400, 9000)}
     del im
     for tag, w in (("", 1400), ("-l", 9000)):

diff --git a/README.md b/README.md
@@ -20,6 +20,11 @@ No build step; `.nojekyll` makes GitHub serve the files as they are.
 | Originals, never changed | `Simulation for Food_v3.pptx` (Radiance Workshop 2026), `Kybele_logo_black and orange.png`, `case study UW.png`, `Three_channelworkflow.png`, `hyperspectral_workflow.png` |
 | The script that makes `img/` | `tools/build_img.py` (Pillow, numpy, python-pptx; LibreOffice for the monthly renders) |
 
+The page runs: plants and light, spectral conversion (lux to PPFD, with a calculator that
+computes the factor k for a black body source from the V(λ) and PAR curves), the tool, the UW
+greenhouse case study (the model beside the PPFD and DLI heat maps, whose time axes are aligned),
+the Grasshopper definitions (shown in black and white) and credits.
+
 The charts (spectral responses; DLI, deficit and lamp hours) are drawn in SVG in `index.html`
 from the data inside the presentation's charts, so they follow the theme. The logo is the grey
 and orange version from the presentation.
@@ -32,7 +37,8 @@ WebP, about 1600 px wide.
 
 ## Credits
 
-Mehlika Inanici (research lead), Gundula Proksch, Shafiul Islam; University of Washington,
+Mehlika Inanici (research lead), Gundula Proksch (research advisor), Shafiul Islam
+(developer, researcher); Mehlika Inanici is always named before Shafiul Islam; University of Washington,
 Department of Architecture. Presented as "Simulation for Food: Evaluating Urban Greenhouses"
 at the 24th International Radiance Workshop, Seattle, September 1, 2026.
 
